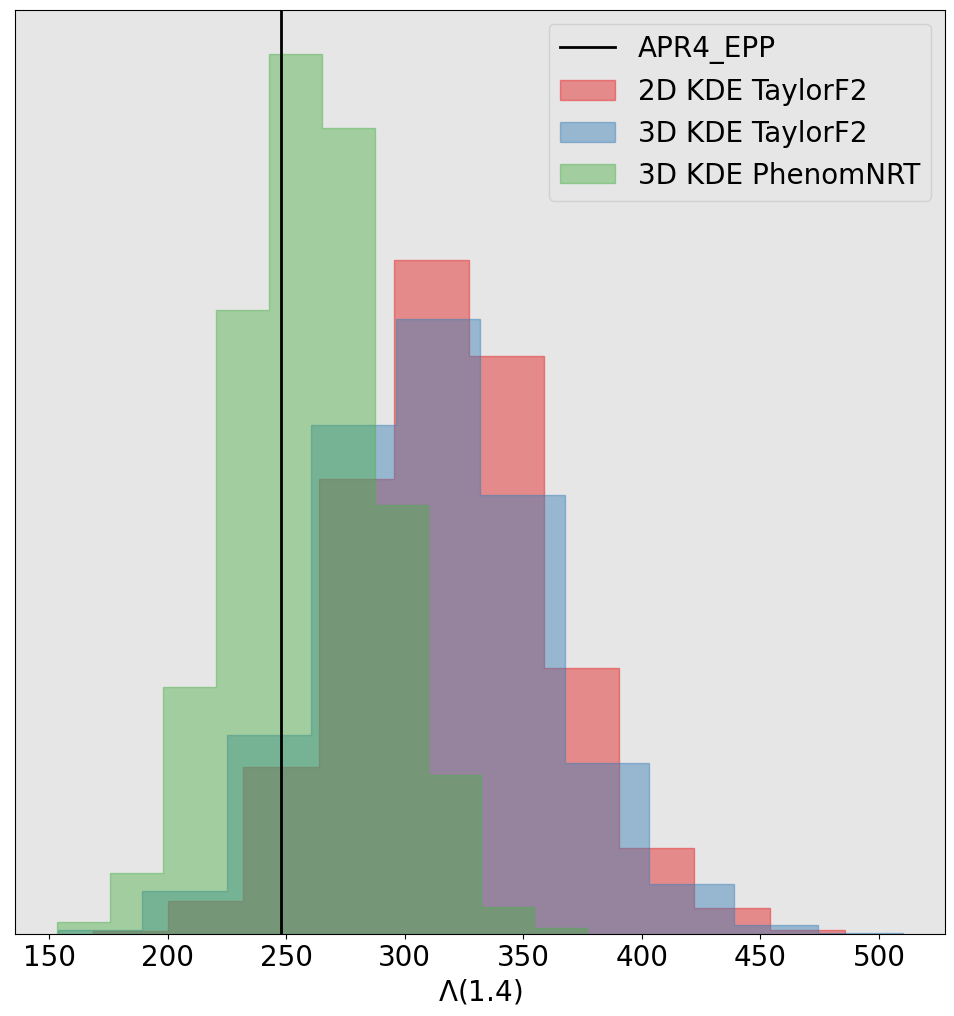
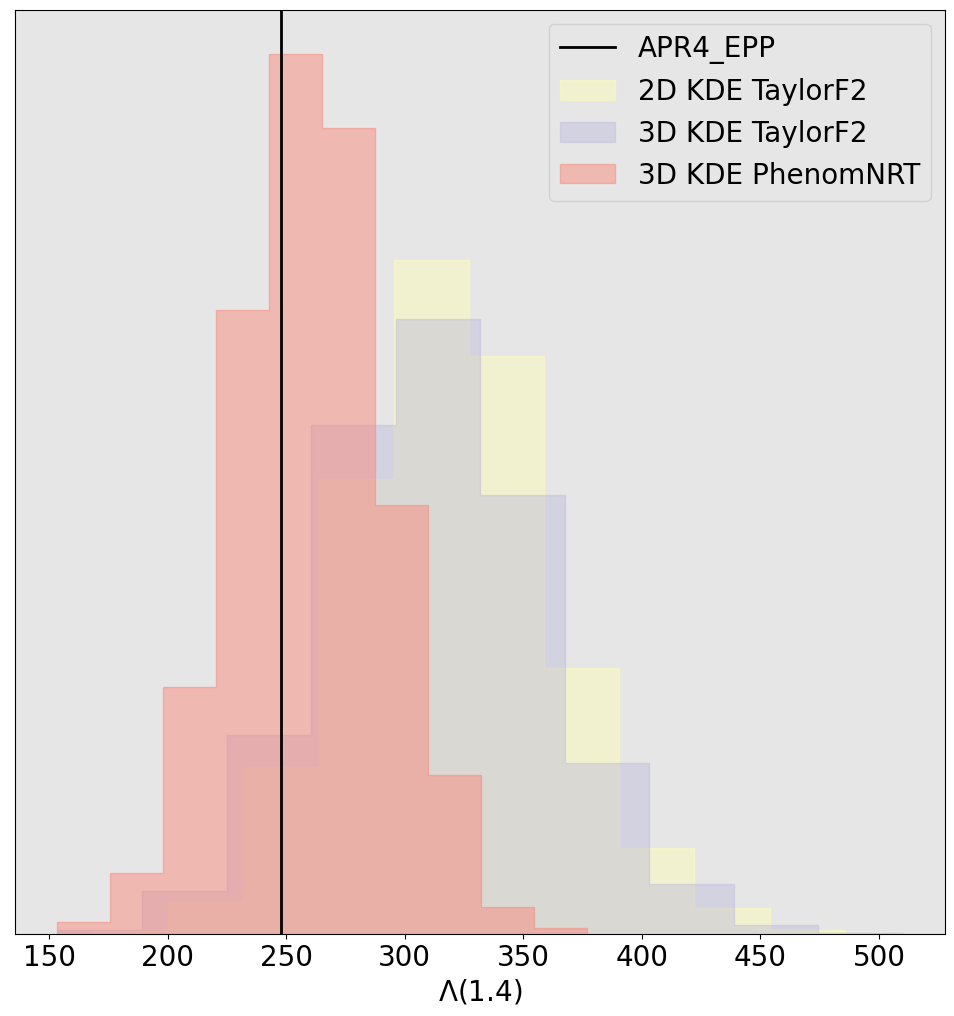
lambda histograms redone.

Changed region(s): [[0.0608, 0.0305, 0.8816, 0.9459], [0.5776, 0.061, 0.6688, 0.1831]]

diff --git a/year3/lastStretch/lambdaHist.py b/year3/lastStretch/lambdaHist.py
@@ -5,17 +5,16 @@ import matplotlib.pyplot as plt
 
 #labels = ["lalsim_nest-PhenomNRT", "2D-KDE-TaylorF2", "3D-KDE-TaylorF2", "3D-KDE-PhenomNRT"]
 #labels = ["2D-KDE-TaylorF2", "3D-KDE-TaylorF2", "3D-KDE-PhenomNRT"]
-#labels = ["lalsim_nest-PhenomNRT"]
-labels = ["3D-KDE-PhenomNRT"]
+labels = ["3D-KDE-PhenomPv2"]
 
 def calcLambda_parametrized():
     # Recycled code from GWXtreme.
 
     for ii in range(len(labels)):
 
+        filename='data/BNS/constraints/{}_GW170817inference_gammas.txt'.format(labels[ii])
         #filename='data/BNS/constraints/{}_16simulationsInference_gammas.txt'.format(labels[ii])
-        #filename='data/BNS/constraints/{}_GW170817inference_gammas.txt'.format(labels[ii])
-        filename='./data/NSBH/constraints/{}_18simulationsInference_1000samp_gammas.txt'.format(labels[ii])
+        #filename='./data/NSBH/constraints/{}_18simulationsInference_1000samp_gammas.txt'.format(labels[ii])
         samples = np.loadtxt(filename)
         Lambdas = []
         m=1.4
@@ -31,9 +30,9 @@ def calcLambda_parametrized():
             Lambda = (2/3)*kk/(cc**5)
             Lambdas.append(Lambda)
 
+        np.savetxt("data/BNS/lambdaHists/{}_GW170817inference_Lambdas.txt".format(labels[ii]),np.array(Lambdas).T)
         #np.savetxt("data/BNS/lambdaHists/{}_16simulationsInference_Lambdas.txt".format(labels[ii]),np.array(Lambdas).T)
-        #np.savetxt("data/BNS/lambdaHists/{}_GW170817inference_Lambdas.txt".format(labels[ii]),np.array(Lambdas).T)
-        np.savetxt("data/NSBH/lambdaHists/{}_18simulationsInference_1000samp_Lambdas.txt".format(labels[ii]),np.array(Lambdas).T)
+        #np.savetxt("data/NSBH/lambdaHists/{}_18simulationsInference_1000samp_Lambdas.txt".format(labels[ii]),np.array(Lambdas).T)
 
 
 
@@ -48,8 +47,9 @@ def plotLambda_parametrized(eosname="APR4_EPP"):
     cc = m*lal.MRSUN_SI/rr
     eosLambda = (2/3)*kk/(cc**5)
 
-    #Colors = ['#e41a1c','#377eb8','#4daf4a','#984ea3']
-    Colors = ['#e41a1c']
+    #Colors = ['#8dd3c7','#ffffb3','#bebada','#fb8072']
+    #Colors = ['#ffffb3','#bebada','#fb8072']
+    Colors = ['#fb8072']
 
     plt.figure(figsize=(12,12))
     plt.rc('font', size=20)
@@ -62,8 +62,8 @@ def plotLambda_parametrized(eosname="APR4_EPP"):
     Labels = ["3D KDE PhenomPv2"]
     for ii in range(len(Labels)):
 
-        #filename='data/BNS/lambdaHists/{}_16simulationsInference_Lambdas.txt'.format(labels[ii])
         #filename='data/BNS/lambdaHists/{}_GW170817inference_Lambdas.txt'.format(labels[ii])
+        #filename='data/BNS/lambdaHists/{}_16simulationsInference_Lambdas.txt'.format(labels[ii])
         filename='data/NSBH/lambdaHists/{}_18simulationsInference_1000samp_Lambdas.txt'.format(labels[ii])
         Lambdas = np.loadtxt(filename).T
         plt.hist(Lambdas, label=Labels[ii], alpha=0.45, fill=True, density=True, color=Colors[ii], histtype='step')
@@ -73,7 +73,7 @@ def plotLambda_parametrized(eosname="APR4_EPP"):
     plt.xlabel("$\Lambda$(1.4)",fontsize=20)
     plt.yticks([])
     plt.legend()
-    #plt.savefig("plots/lambdaHists/16simulations_Lambdas.png", bbox_inches='tight')
-    #plt.savefig("plots/lambdaHists/GW170817_Lambdas.png", bbox_inches='tight')
+    #plt.savefig("plots/BNS/lambdaHists/GW170817_Lambdas.png", bbox_inches='tight')
+    #plt.savefig("plots/BNS/lambdaHists/16simulations_Lambdas.png", bbox_inches='tight')
     plt.savefig("plots/NSBH/lambdaHists/18simulations_1000samp_Lambdas.png", bbox_inches='tight')
 
